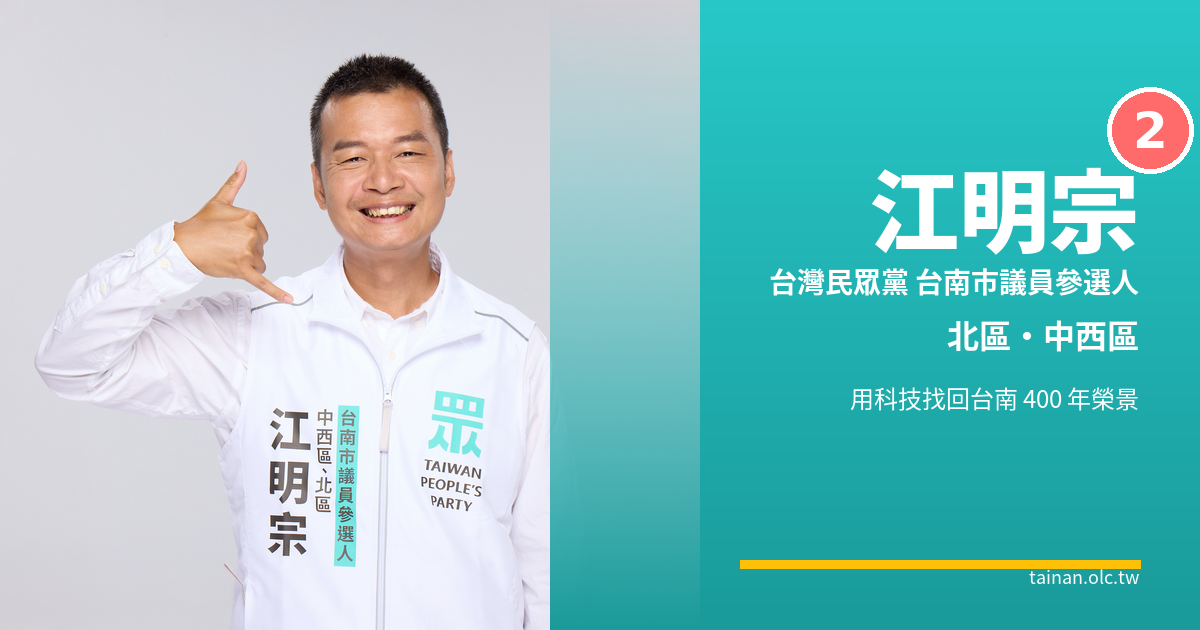
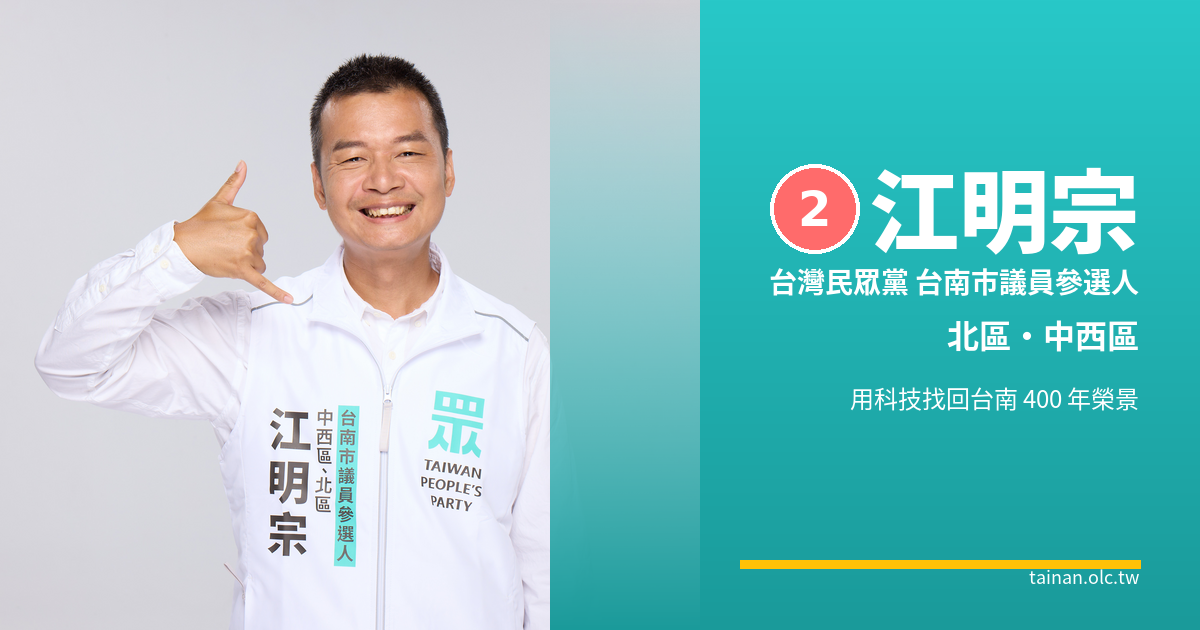
Move number 2 badge before name, update text references
- Badge placed before name instead of after on all pages
- Badge sizing uses 1em to match text height with 0.2em spacing
- Replace 我 self-references with 2號 江明宗
- Footer updated to 2026 北中西區台南議員候選人 江明宗
- OG image badge repositioned to left of name, aligned at text height

Changed region(s): [[0.6167, 0.2413, 0.74, 0.4222], [0.925, 0.1206, 1.0, 0.2714]]

diff --git a/src/views/Home.vue b/src/views/Home.vue
@@ -356,7 +356,7 @@ onUnmounted(() => {
         <div class="hero-text">
           <!-- Tab switcher -->
           <div class="hero-tabs">
-            <button :class="['hero-tab', { active: activeTab === 'intro' }]" @click="activeTab = 'intro'">關於我</button>
+            <button :class="['hero-tab', { active: activeTab === 'intro' }]" @click="activeTab = 'intro'">關於 2號 江明宗</button>
             <RouterLink :to="{ name: 'Donate' }" class="hero-tab" style="text-decoration: none;">
               政治獻金
               <span class="tab-badge">NEW</span>
@@ -366,7 +366,7 @@ onUnmounted(() => {
           <!-- Tab: Intro -->
           <div v-show="activeTab === 'intro'" class="hero-tab-panel">
             <div class="candidate-name">
-              <h1>江明宗 <span class="name-number-badge">2</span></h1>
+              <h1><span class="name-number-badge">2</span> 江明宗</h1>
               <span class="english-name">Finjon Kiang</span>
             </div>
             <p class="candidate-title">台南市議員參選人</p>
@@ -519,7 +519,7 @@ onUnmounted(() => {
             </svg>
           </div>
           <h3>政見</h3>
-          <p>了解我的政治理念與政策主張</p>
+          <p>了解 2號 江明宗的政治理念與政策主張</p>
         </RouterLink>
 
         <RouterLink :to="{ name: 'DistrictMap' }" class="nav-card">
@@ -549,8 +549,8 @@ onUnmounted(() => {
       <div class="intro-content">
         <h2>公民科技專家</h2>
         <p>
-          從登革熱地圖、口罩地圖到好食券地圖，過去多年來我一直用科技工具參與解決你我生活所面臨的問題。
-          這些創作已經幫助了數百萬人，我希望把這個能力帶進台南市議會，從北區、中西區開始帶動台南科技發展！
+          從登革熱地圖、口罩地圖到好食券地圖，過去多年來2號 江明宗一直用科技工具參與解決你我生活所面臨的問題。
+          這些創作已經幫助了數百萬人，2號 江明宗希望把這個能力帶進台南市議會，從北區、中西區開始帶動台南科技發展！
         </p>
         <div class="intro-stats">
           <div class="stat-item">
@@ -716,22 +716,16 @@ onUnmounted(() => {
     display: inline-flex;
     align-items: center;
     justify-content: center;
-    width: 48px;
-    height: 48px;
+    width: 1em;
+    height: 1em;
     background: #ff6b6b;
     color: white;
-    font-size: 28px;
+    font-size: inherit;
     font-weight: 900;
     border-radius: 50%;
     vertical-align: middle;
     box-shadow: 0 3px 12px rgba(255, 107, 107, 0.4);
-    margin-left: 8px;
-
-    @media (max-width: 767px) {
-      width: 36px;
-      height: 36px;
-      font-size: 20px;
-    }
+    margin-right: 0.2em;
   }
 }
 

diff --git a/src/views/Help.vue b/src/views/Help.vue
@@ -22,7 +22,7 @@ function buildFormUrl(prefill) {
   <main class="help-page">
     <section class="page-header">
       <div class="header-content">
-        <h1>幫助明宗 <span class="header-number-badge">2</span></h1>
+        <h1><span class="header-number-badge">2</span> 幫助明宗</h1>
         <p class="subtitle">選舉不是一個人的事<br>每一份支持都是改變台南的力量</p>
       </div>
     </section>
@@ -241,23 +241,17 @@ function buildFormUrl(prefill) {
       display: inline-flex;
       align-items: center;
       justify-content: center;
-      width: 44px;
-      height: 44px;
+      width: 1em;
+      height: 1em;
       background: #ff6b6b;
       color: white;
-      font-size: 26px;
+      font-size: inherit;
       font-weight: 900;
       border-radius: 50%;
       vertical-align: middle;
       box-shadow: 0 3px 12px rgba(255, 107, 107, 0.4);
       border: 2px solid rgba(255, 255, 255, 0.5);
-      margin-left: 8px;
-
-      @media (min-width: 768px) {
-        width: 52px;
-        height: 52px;
-        font-size: 30px;
-      }
+      margin-right: 0.2em;
     }
   }
 

diff --git a/src/views/Donate.vue b/src/views/Donate.vue
@@ -33,7 +33,7 @@ onMounted(() => {
   <main class="donate-page">
     <section class="page-header">
       <div class="header-content">
-        <h1>支持江明宗 <span class="header-number-badge">2</span></h1>
+        <h1><span class="header-number-badge">2</span> 支持江明宗</h1>
         <p class="subtitle">您的每一筆捐款，都是推動台南進步的力量</p>
       </div>
     </section>
@@ -294,23 +294,17 @@ onMounted(() => {
       display: inline-flex;
       align-items: center;
       justify-content: center;
-      width: 44px;
-      height: 44px;
+      width: 1em;
+      height: 1em;
       background: #ff6b6b;
       color: white;
-      font-size: 26px;
+      font-size: inherit;
       font-weight: 900;
       border-radius: 50%;
       vertical-align: middle;
       box-shadow: 0 3px 12px rgba(255, 107, 107, 0.4);
       border: 2px solid rgba(255, 255, 255, 0.5);
-      margin-left: 8px;
-
-      @media (min-width: 768px) {
-        width: 52px;
-        height: 52px;
-        font-size: 30px;
-      }
+      margin-right: 0.2em;
     }
   }
 

diff --git a/src/App.vue b/src/App.vue
@@ -311,7 +311,7 @@ onUnmounted(() => {
           <p class="footer-donate-detail">了解詳細劃撥步驟與收據寄送事宜 <i class="bi bi-arrow-right"></i></p>
         </div>
       </RouterLink>
-      <p class="footer-copyright">© 2024 江明宗. All rights reserved.</p>
+      <p class="footer-copyright">© 2026 北中西區台南議員候選人 江明宗. All rights reserved.</p>
     </div>
   </footer>
 </template>
